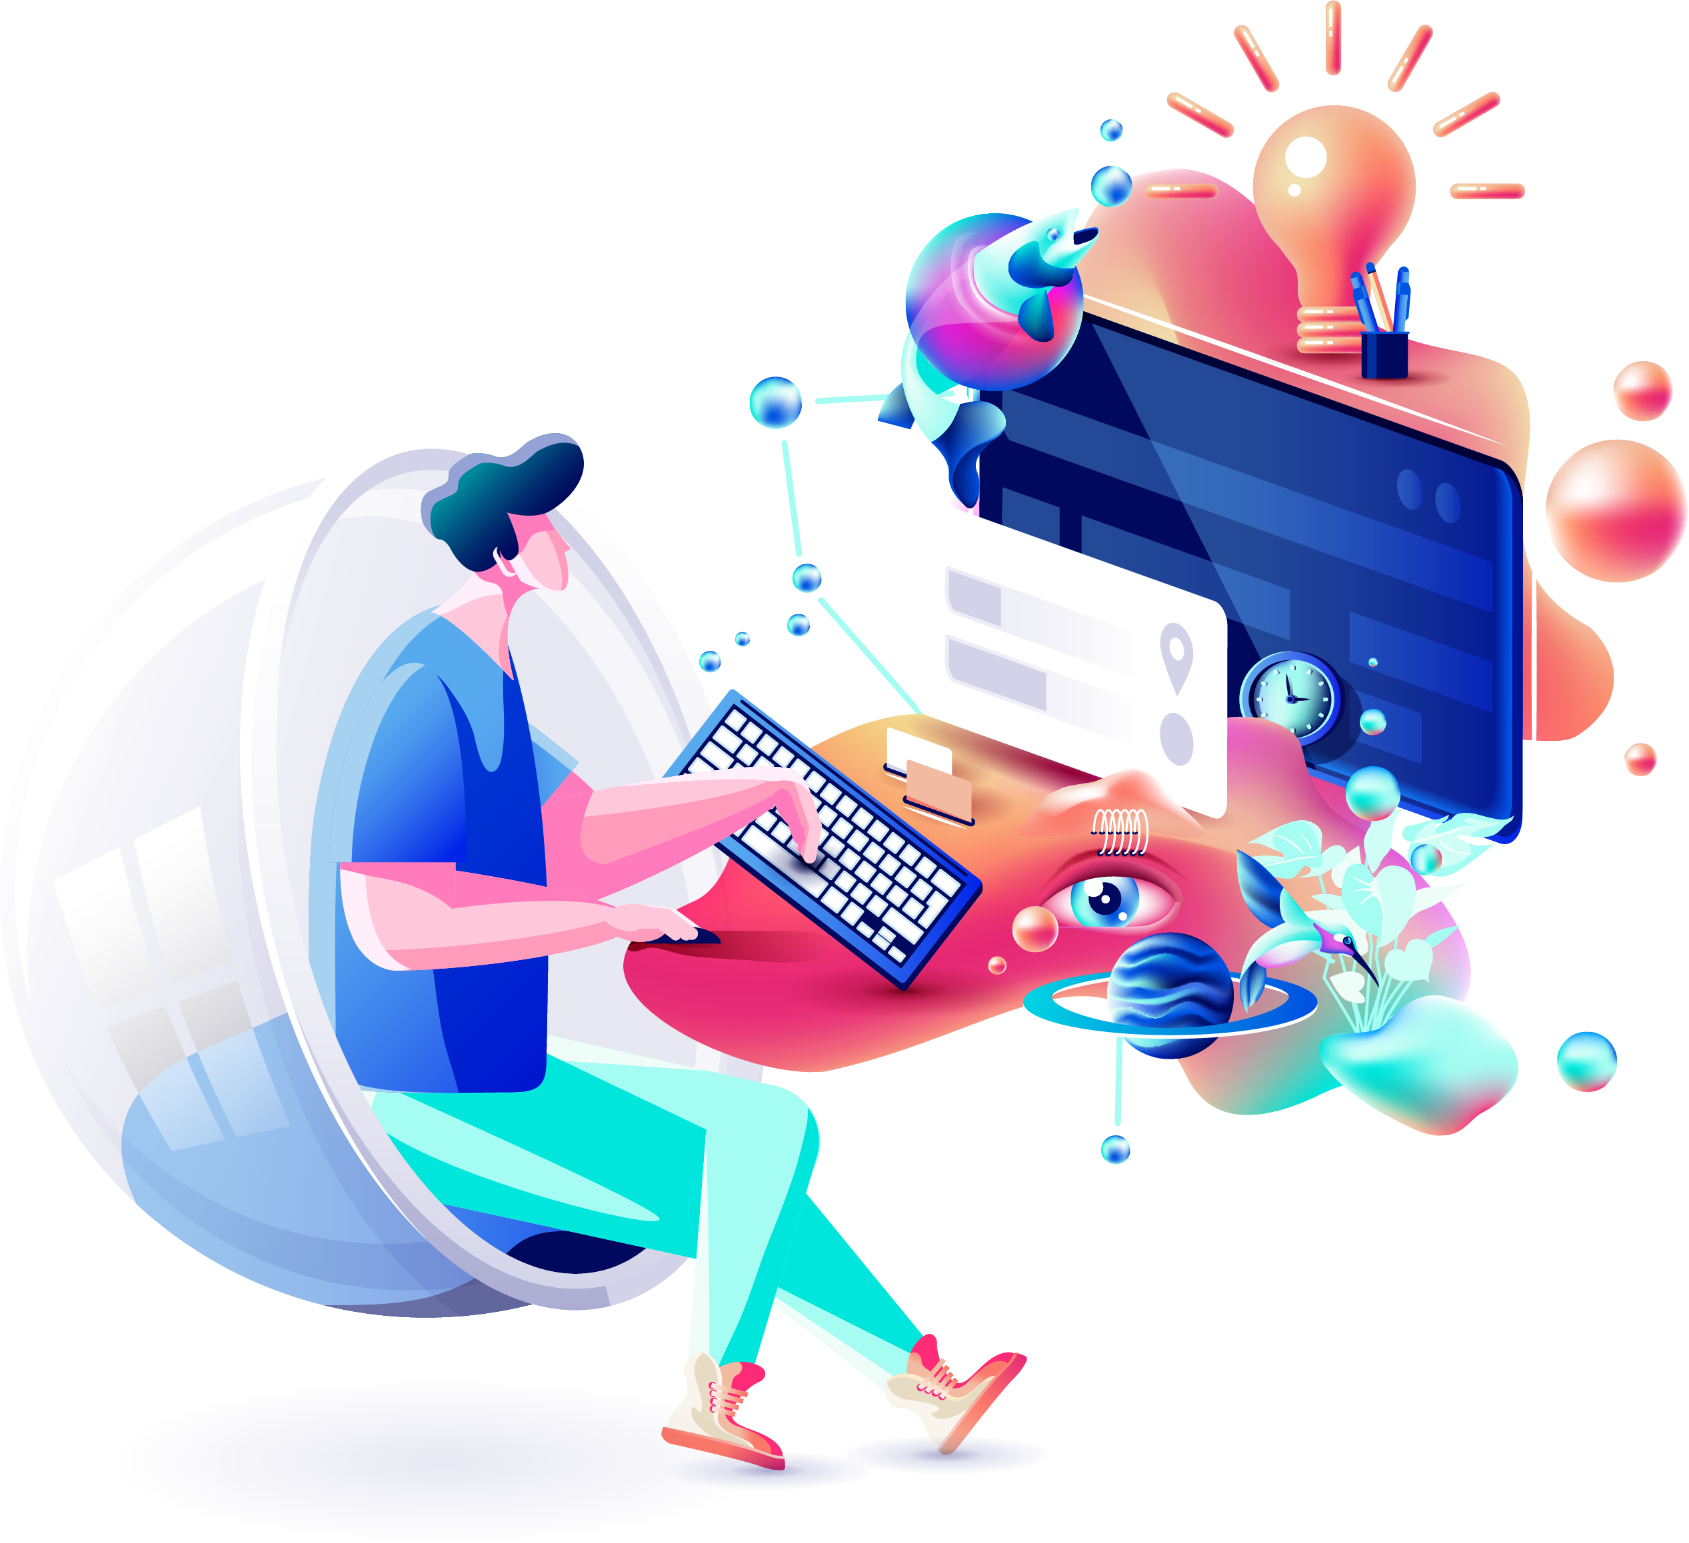
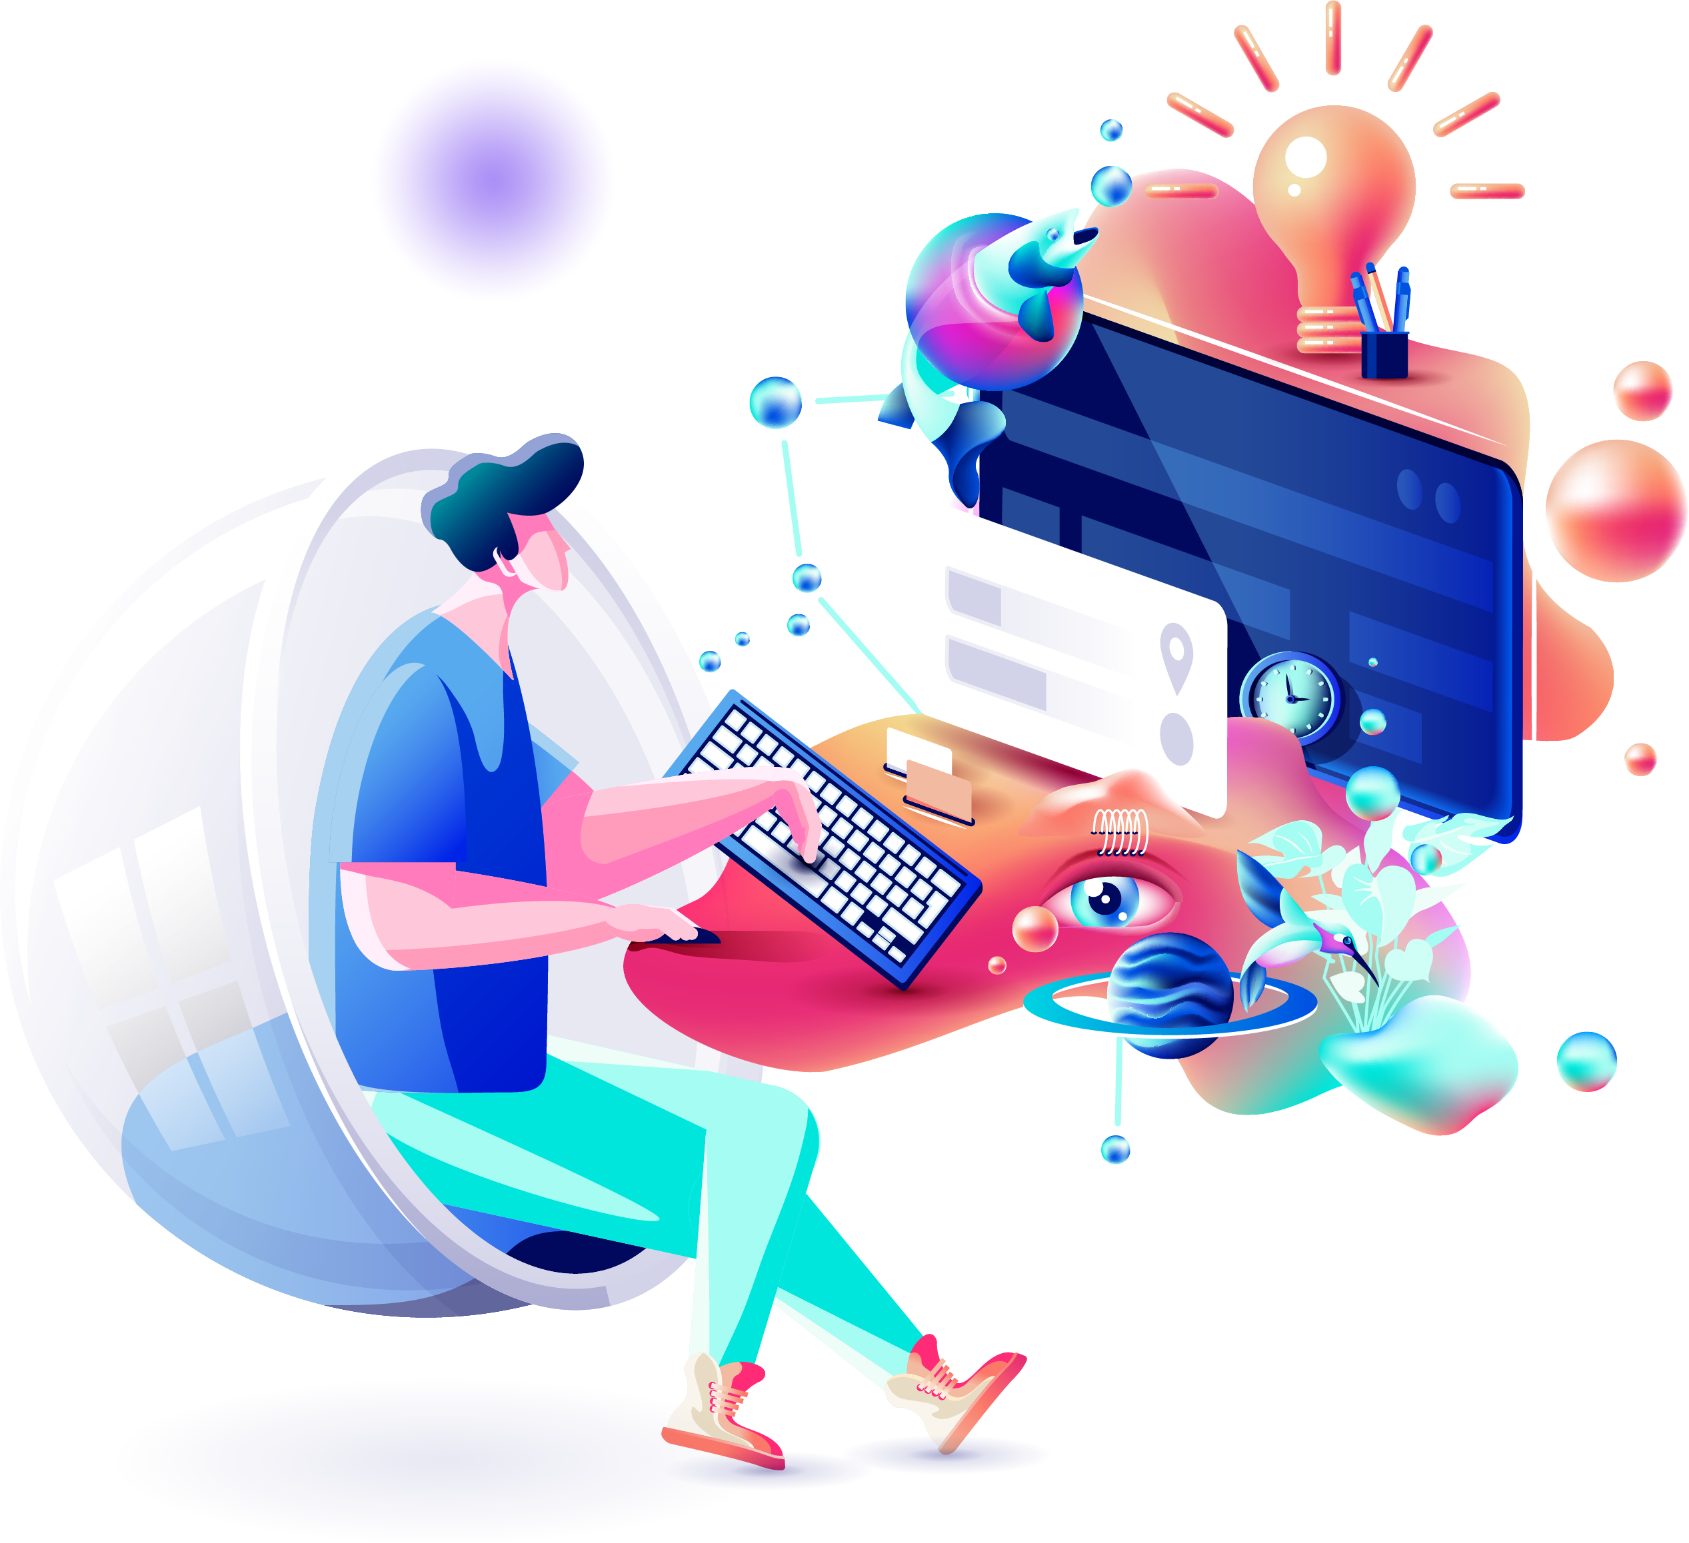
background edited

Changed region(s): [[0.2155, 0.0311, 0.3694, 0.1866]]

diff --git a/src/Component/Main/OurAchievement/OurAchievement.js b/src/Component/Main/OurAchievement/OurAchievement.js
@@ -24,7 +24,7 @@ const OurAchievement = () => {
                     <div class="card m-3" style={{width: '15rem', height:'5rem', borderRadius: '0 50px'}} className='beauty' >
                         <div class="card-body text-dark d-flex">
                             <div>
-                            <img src={happy} alt="" style={{color:'black', width:'50%', height:'50%' }} className='cmn-text' />
+                            <img src={happy} alt="" style={{color:'black', width:'50%', height:'65%' }} className='cmn-text' />
                             </div>
                             <div>
                             <h5 class="card-title cmn-text"> 700+</h5>

diff --git a/src/Component/Main/RunningProject/RunningProject.js b/src/Component/Main/RunningProject/RunningProject.js
@@ -14,7 +14,6 @@ const RunningProject = () => {
                     Modi magni eligendi expedita quas, rem nam id suscipit quos
                     recusandae enim cum accusamus, nostrum vitae totam dolores
                         ipsum possimus! Et, optio! </p>
-
                     <button class="btn btn-success">Get Started</button>
                 </div>
 

diff --git a/src/Component/Main/Navbar/Navbar.js b/src/Component/Main/Navbar/Navbar.js
@@ -1,6 +1,7 @@
 import React from 'react';
 import './Navbar.css';
 import logo from '../../../image/Group 86.png';
+import navbar from '../../../image/navbar-bg.png'
 
 
 const Navbar = () => {

diff --git a/src/Component/Main/Main.css b/src/Component/Main/Main.css
@@ -1,3 +1,6 @@
 .body{
     background-color: #EFFDFB;
+    background-image: url(../../image/bg.png);
+    background-repeat: no-repeat;
+    background-size: contain;
 }

diff --git a/src/Component/Main/Navbar/Navbar.css b/src/Component/Main/Navbar/Navbar.css
@@ -4,3 +4,4 @@ button{
     border-radius: 25px 0 !important;
     color: #fff !important;
 }
+
